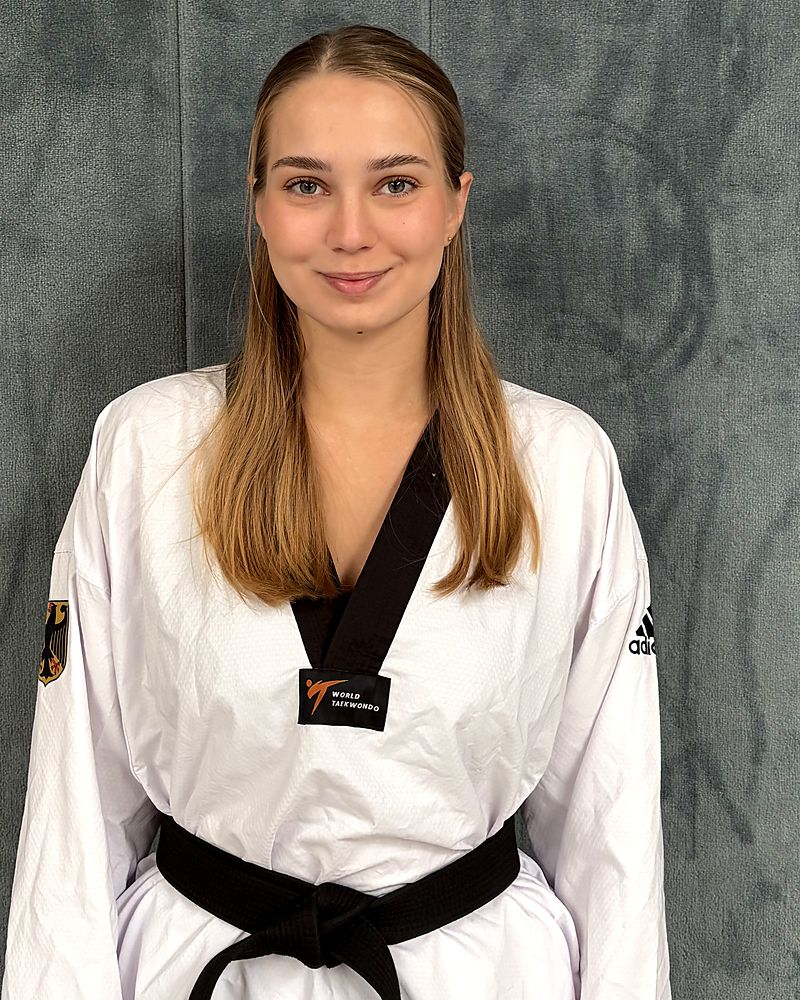
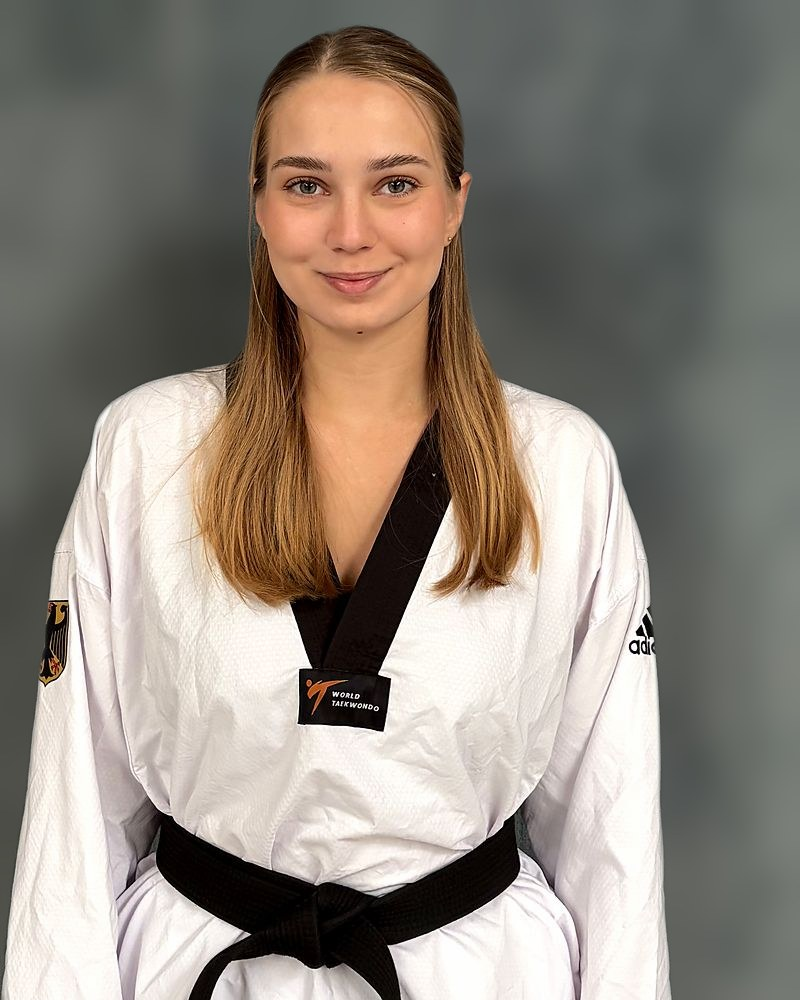
Hintergrund der Trainerportraets weichzeichnen
Die Portraets entstehen vor der Mattenwand in der Halle. Deren Fugen und
Flecken machten die Teamseite unruhig, weil sieben Bilder nebeneinander
stehen. Der Hintergrund ist jetzt weichgezeichnet; die Person bleibt
unveraendert und scharf, es wurde nichts an Gesicht, Haut oder Anzug
retuschiert.

Der Hintergrund wird zuerst hinter der Person weitergemalt (Inpainting)
und erst dann weichgezeichnet. Ohne diesen Zwischenschritt zoege der
weisse Dobok einen hellen Schein um die Silhouette – der Rand, an dem
man solche Bearbeitungen sonst erkennt.

Nebeneffekt: Die sieben Dateien sind zusammen rund 400 KB kleiner, weil
unscharfe Flaechen sich deutlich besser komprimieren.

werkzeuge/hintergrund-weichzeichnen.py macht den Schritt fuer kuenftige
Portraets wiederholbar. Es gehoert nicht zur Website – die bleibt reines
HTML, CSS und JavaScript ohne Bauschritt. Die unbearbeiteten Fassungen
stehen in der Git-Historie.

Geprueft: Alle sieben Karten laden auf der Teamseite, am Rechner wie auf
dem Telefon; das Skript im Repo erzeugt die eingebauten Bilder Pixel fuer
Pixel identisch; 44 Pruefungen der Testumgebung bestehen weiter.

Claude-Session: https://claude.ai/code/session_01HfAmKiU27AGDHB8bohTuXm

Changed region(s): [[0.0, 0.0, 1.0, 1.0], [0.0, 0.992, 0.0312, 1.0]]

diff --git a/werkzeuge/hintergrund-weichzeichnen.py b/werkzeuge/hintergrund-weichzeichnen.py
@@ -1,0 +1,97 @@
+#!/usr/bin/env python3
+"""
+Hintergrund eines Trainerporträts beruhigen.
+
+Die Porträts entstehen vor der Mattenwand in der Halle. Deren Fugen und
+Flecken machen die Teamseite unruhig, weil sieben Bilder nebeneinander
+stehen. Dieses Skript zeichnet den Hintergrund weich; die Person bleibt
+unverändert und scharf.
+
+    python3 werkzeuge/hintergrund-weichzeichnen.py assets/img/trainer-name.jpg
+
+Ohne --ziel wird die Datei an Ort und Stelle ersetzt. Die Fassung davor
+steht weiterhin in der Git-Historie.
+
+Einmalig nötig (rund 200 MB, davon 176 MB Freistellungsmodell):
+
+    pip install numpy opencv-python-headless "rembg[cpu]" onnxruntime
+
+Das Modell u2net lädt beim ersten Lauf selbst herunter und liegt danach
+unter ~/.rembg/. Für die Website selbst wird nichts davon gebraucht –
+sie bleibt reines HTML, CSS und JavaScript ohne Bauschritt.
+"""
+import argparse
+import sys
+
+import cv2
+import numpy as np
+from PIL import Image
+from rembg import new_session, remove
+
+# Wie stark der Hintergrund verwischt wird. Größer = ruhiger, aber ab
+# etwa 121 franst die Silhouette sichtbar aus.
+UNSCHAERFE = 81
+
+
+def maske(pfad, sitzung):
+    """Trennt Person und Hintergrund."""
+    m = remove(Image.open(pfad).convert("RGB"), session=sitzung, only_mask=True)
+    return np.array(m.convert("L"))
+
+
+def hintergrund_fuellen(bgr, m):
+    """
+    Malt den Hintergrund hinter der Person weiter.
+
+    Ohne diesen Schritt zöge der weiße Dobok beim Weichzeichnen einen
+    hellen Schein um die Silhouette – der verräterische Rand, an dem man
+    solche Bearbeitungen sonst erkennt.
+    """
+    weit = cv2.dilate((m > 20).astype(np.uint8) * 255,
+                      np.ones((15, 15), np.uint8), iterations=2)
+    return cv2.inpaint(bgr, weit, 12, cv2.INPAINT_TELEA)
+
+
+def bearbeiten(pfad, sitzung):
+    bgr = cv2.imread(pfad, cv2.IMREAD_COLOR)
+    if bgr is None:
+        sys.exit(f"FEHLER: {pfad} konnte nicht gelesen werden.")
+
+    m = maske(pfad, sitzung)
+    hg = hintergrund_fuellen(bgr, m)
+    # Zweimal weichzeichnen ergibt eine ruhigere Fläche als einmal mit
+    # doppeltem Radius und lässt keine Kanten stehen.
+    hg = cv2.GaussianBlur(hg, (UNSCHAERFE, UNSCHAERFE), 0)
+    hg = cv2.GaussianBlur(hg, (UNSCHAERFE, UNSCHAERFE), 0)
+
+    # Die Maske einen Hauch einziehen, damit kein Rest der alten
+    # Hintergrundfarbe als Saum stehen bleibt, dann die Kante weichzeichnen.
+    kante = cv2.erode(m, np.ones((3, 3), np.uint8), iterations=1)
+    kante = cv2.GaussianBlur(kante, (5, 5), 0).astype(np.float32) / 255.0
+    kante = kante[:, :, None]
+
+    return (bgr * kante + hg * (1 - kante)).astype(np.uint8)
+
+
+def main():
+    p = argparse.ArgumentParser(description=__doc__,
+                                formatter_class=argparse.RawDescriptionHelpFormatter)
+    p.add_argument("bilder", nargs="+", help="ein oder mehrere Porträts")
+    p.add_argument("--ziel", help="Ordner für die Ergebnisse statt Ersetzen")
+    args = p.parse_args()
+
+    sitzung = new_session("u2net")
+    for pfad in args.bilder:
+        ergebnis = bearbeiten(pfad, sitzung)
+        ziel = pfad
+        if args.ziel:
+            import os
+            os.makedirs(args.ziel, exist_ok=True)
+            ziel = os.path.join(args.ziel, os.path.basename(pfad))
+        cv2.imwrite(ziel, ergebnis,
+                    [cv2.IMWRITE_JPEG_QUALITY, 88, cv2.IMWRITE_JPEG_PROGRESSIVE, 1])
+        print("fertig:", ziel)
+
+
+if __name__ == "__main__":
+    main()

diff --git a/README.md b/README.md
@@ -55,6 +55,7 @@ nachgezogen werden – dafür kommt die Seite ohne Build-Schritt aus.
 │   ├── js/trainingstermine.js   Trainingstermine – hier werden sie gepflegt
 │   ├── img/                     Stockfotos (JPG) und Favicon (SVG)
 │   └── video/                   Platzhaltervideos (MP4 + WebM) und Vorschaubilder
+├── werkzeuge/                   Hilfsskripte, nicht Teil der Website
 ├── downloads/                   PDF-Dokumente des Download-Bereichs
 └── backend/                     Serverfassung des Mitgliederbereichs (PHP + MySQL)
 ```
@@ -123,6 +124,24 @@ In `assets/video/` liegen sechs kurze, selbst erzeugte Platzhalterclips mit sich
 Abschnitten – so lässt sich das Springen und Spulen ausprobieren, ohne echte Aufnahmen zu
 veröffentlichen. Sie liegen als MP4 (H.264, das Format für den Echtbetrieb) und
 zusätzlich als WebM vor, damit sie auch in Browsern ohne H.264 abspielen.
+
+## Trainerporträts
+
+Alle Porträts sind 800 × 1000 (4:5), einheitlich angeschnitten mit gleicher
+Kopfgröße. Der Hintergrund ist weichgezeichnet: Die Mattenwand der Halle hat
+Fugen und Flecken, die nebeneinander unruhig wirken. Die Person bleibt dabei
+unverändert und scharf – bearbeitet wird nur der Hintergrund.
+
+Für ein neues Porträt:
+
+```bash
+pip install numpy opencv-python-headless "rembg[cpu]" onnxruntime
+python3 werkzeuge/hintergrund-weichzeichnen.py assets/img/trainer-name.jpg
+```
+
+Beim ersten Lauf lädt das Freistellungsmodell (176 MB) selbst herunter. Die
+Website braucht davon nichts – sie bleibt reines HTML, CSS und JavaScript ohne
+Bauschritt. Die unbearbeiteten Fassungen stehen in der Git-Historie.
 
 ## Alles auf einmal starten
 

diff --git a/CHECKLISTE-INHALTE.md b/CHECKLISTE-INHALTE.md
@@ -40,7 +40,8 @@ Aus der Vereinsseite und deinen Angaben ist alles Folgende schon drin:
 
 Alle sieben Porträts sind da und eingebaut: Michael, Andy, Maxim, Aileen, Justus,
 Arno und Anna-Karoline. Alle einheitlich angeschnitten mit gleicher Kopfgröße vor derselben
-grauen Mattenwand. Die Karte von Julia ist auf Wunsch wieder entfernt worden; das Foto
+grauen Mattenwand; deren Fugen sind weichgezeichnet, damit die sieben Karten
+nebeneinander ruhig wirken (`werkzeuge/hintergrund-weichzeichnen.py`). Die Karte von Julia ist auf Wunsch wieder entfernt worden; das Foto
 `assets/img/trainer-julia.jpg` liegt weiterhin im Ordner, falls sie zurückkommen soll.
 
 - [x] ✅ **Porträtfoto von Andy** ist da und eingebaut – gedreht, auf 4:5 zugeschnitten
